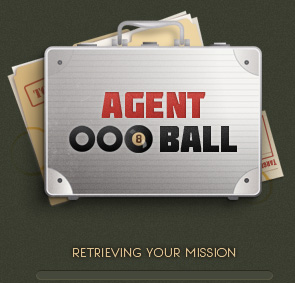
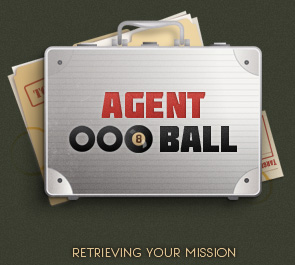
temporary preloader graphics (temporary because they're ugly)
git-svn-id: https://pixellab.springloops.com/source/eightball/trunk@415 efd6ee18-2b61-4776-8ca0-166b4ef03a6b

diff --git a/javascripts/application.js b/javascripts/application.js
@@ -45,18 +45,18 @@ eightball.application.loadApp = function (skip_graphics) {
 
   soundManager.add("break", new eightball.SoundEffect("sounds/break.mp3", 1));
   soundManager.add("cuestick", new eightball.SoundEffect("sounds/cuestick.mp3", 1));
-  soundManager.add("ball", new eightball.SoundEffect("sounds/clack.mp3", 8));
-  soundManager.add("quietball", new eightball.SoundEffect("sounds/clackquiet.mp3", 8))
-  soundManager.add("wall", new eightball.SoundEffect("sounds/wall.mp3", 4));
-  soundManager.add("quietwall", new eightball.SoundEffect("sounds/wallquiet.mp3", 4));
+  soundManager.add("ball", new eightball.SoundEffect("sounds/clack.mp3", 5));
+  soundManager.add("quietball", new eightball.SoundEffect("sounds/clackquiet.mp3", 2))
+  soundManager.add("wall", new eightball.SoundEffect("sounds/wall.mp3", 3));
+  soundManager.add("quietwall", new eightball.SoundEffect("sounds/wallquiet.mp3", 2));
   soundManager.add("cuehit", new eightball.SoundEffect("sounds/cuehit.mp3", 1));
   soundManager.add("pocket", new eightball.SoundEffect("sounds/pocket.mp3", 2));
   soundManager.add("typing", new eightball.SoundEffect("sounds/typing.mp3", 1));
   soundManager.add("activate", new eightball.SoundEffect("sounds/activate.mp3", 1));
   soundManager.add("deactivate", new eightball.SoundEffect("sounds/deactivate.mp3", 1));
-  soundManager.add("bombtickslow", new eightball.SoundEffect("sounds/bombtickslow.mp3", 2));
-  soundManager.add("bombtick", new eightball.SoundEffect("sounds/bombtick.mp3", 2));
-  soundManager.add("bombtickfast", new eightball.SoundEffect("sounds/bombtickfast.mp3", 2));
+  soundManager.add("bombtickslow", new eightball.SoundEffect("sounds/bombtickslow.mp3", 1));
+  soundManager.add("bombtick", new eightball.SoundEffect("sounds/bombtick.mp3", 1));
+  soundManager.add("bombtickfast", new eightball.SoundEffect("sounds/bombtickfast.mp3", 1));
   soundManager.add("explode", new eightball.SoundEffect("sounds/explode.mp3", 1));
 
   window.soundManager = soundManager;

diff --git a/javascripts/eightball/Game.js b/javascripts/eightball/Game.js
@@ -68,7 +68,7 @@ eightball.Game.prototype.reset = function() {
 eightball.Game.prototype.resetTable = function() {
   this.bombSecondsLeft = eightball.Game.s_bombSeconds + 2;
   this.bombNumber = goog.math.randomInt(15) + 1;
-  this.bombNumber = 1; // for debug
+  //this.bombNumber = 1; // for debug
   this._isBombFound = false;
   this._isBombActive = false;
   this.m_poolTable.rackEm();

diff --git a/index_source.html b/index_source.html
@@ -19,8 +19,7 @@
         <img style="position: absolute; width: 100%; height: 100%; left: 0px; top: 0px;"
             src="images/vignette.png" class="stretch" alt="" />
         <div id="loading">
-            <div id="loadingpg">
-            </div>
+            <img id="loadingpg" src="images/loading.gif" />
         </div>
     </div>
     <div id="vignette" class="hidden">

diff --git a/stylesheets/style.css b/stylesheets/style.css
@@ -497,13 +497,10 @@ body {
 }
 
 #loadingpg {
-    width: 0px;
-    height: 10px;
-    background-image: url("../images/loadingpg.png");
-    background-repeat: no-repeat;
-    position: absolute;
-    margin-top: 270px;
-    margin-left: 36px;
+    width: 128px;
+    height: 15px;
+    margin-top: 280px;
+    margin-left: 14px;
 }
 
 #pixellab {

diff --git a/javascripts/loader.js b/javascripts/loader.js
@@ -40,7 +40,6 @@ $(document).ready(function() {
     'images/lighton.png',
     'images/loading.jpg',
     'images/loadingbg.png',
-    'images/loadingpg.png',
     'images/num1.png',
     'images/num10.png',
     'images/num11.png',
